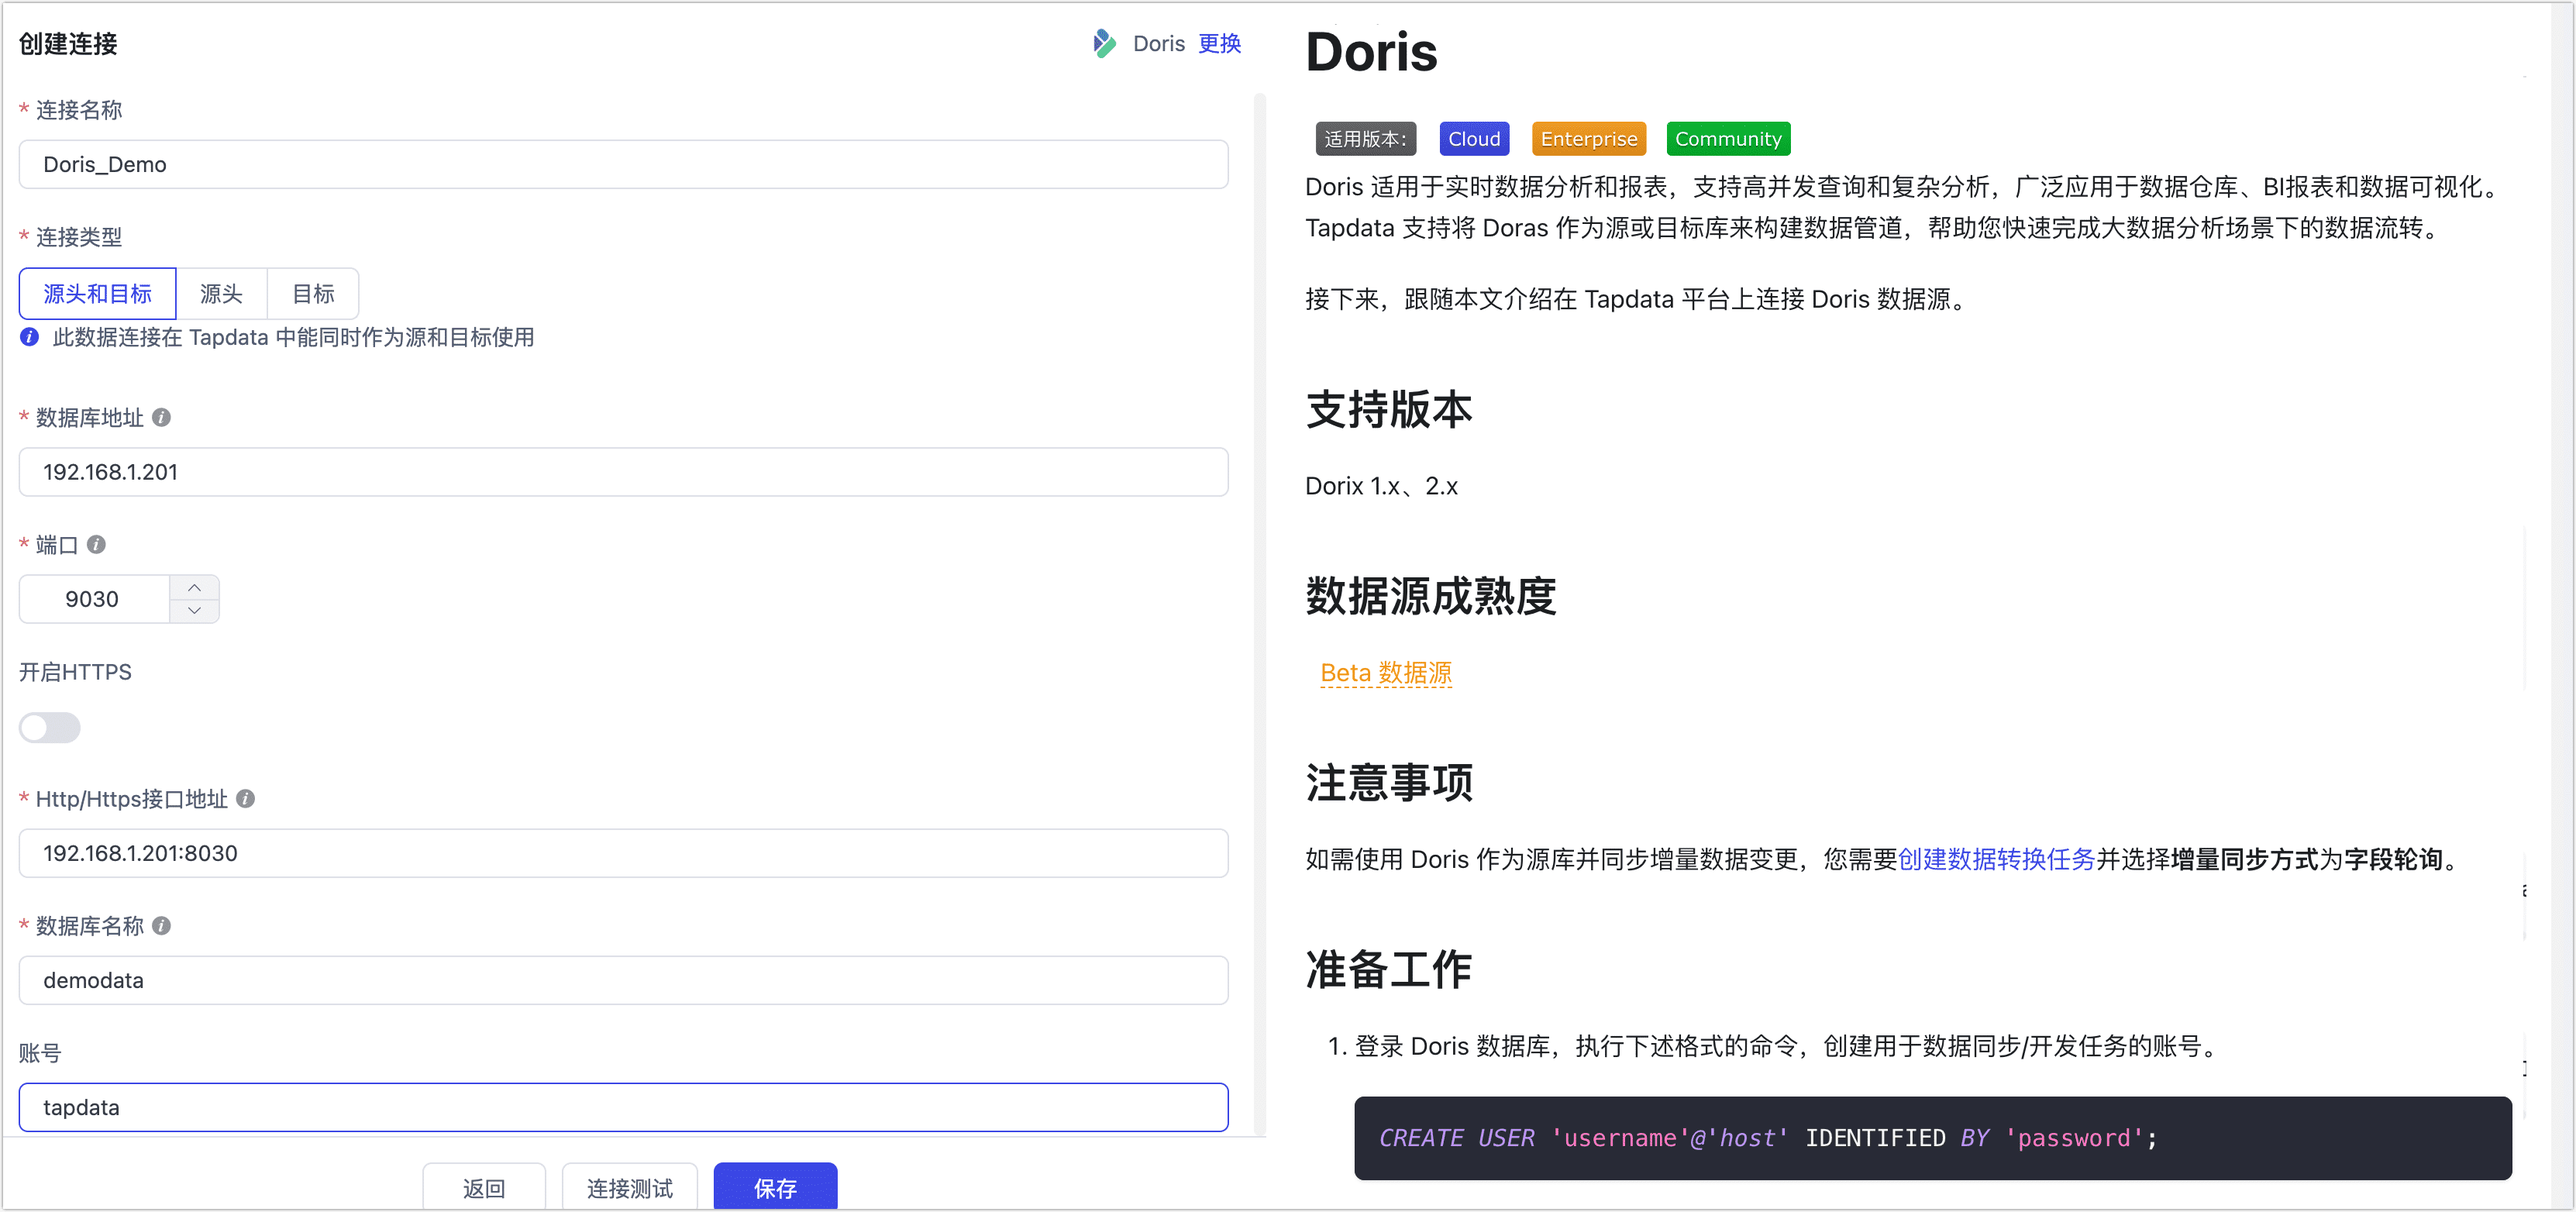
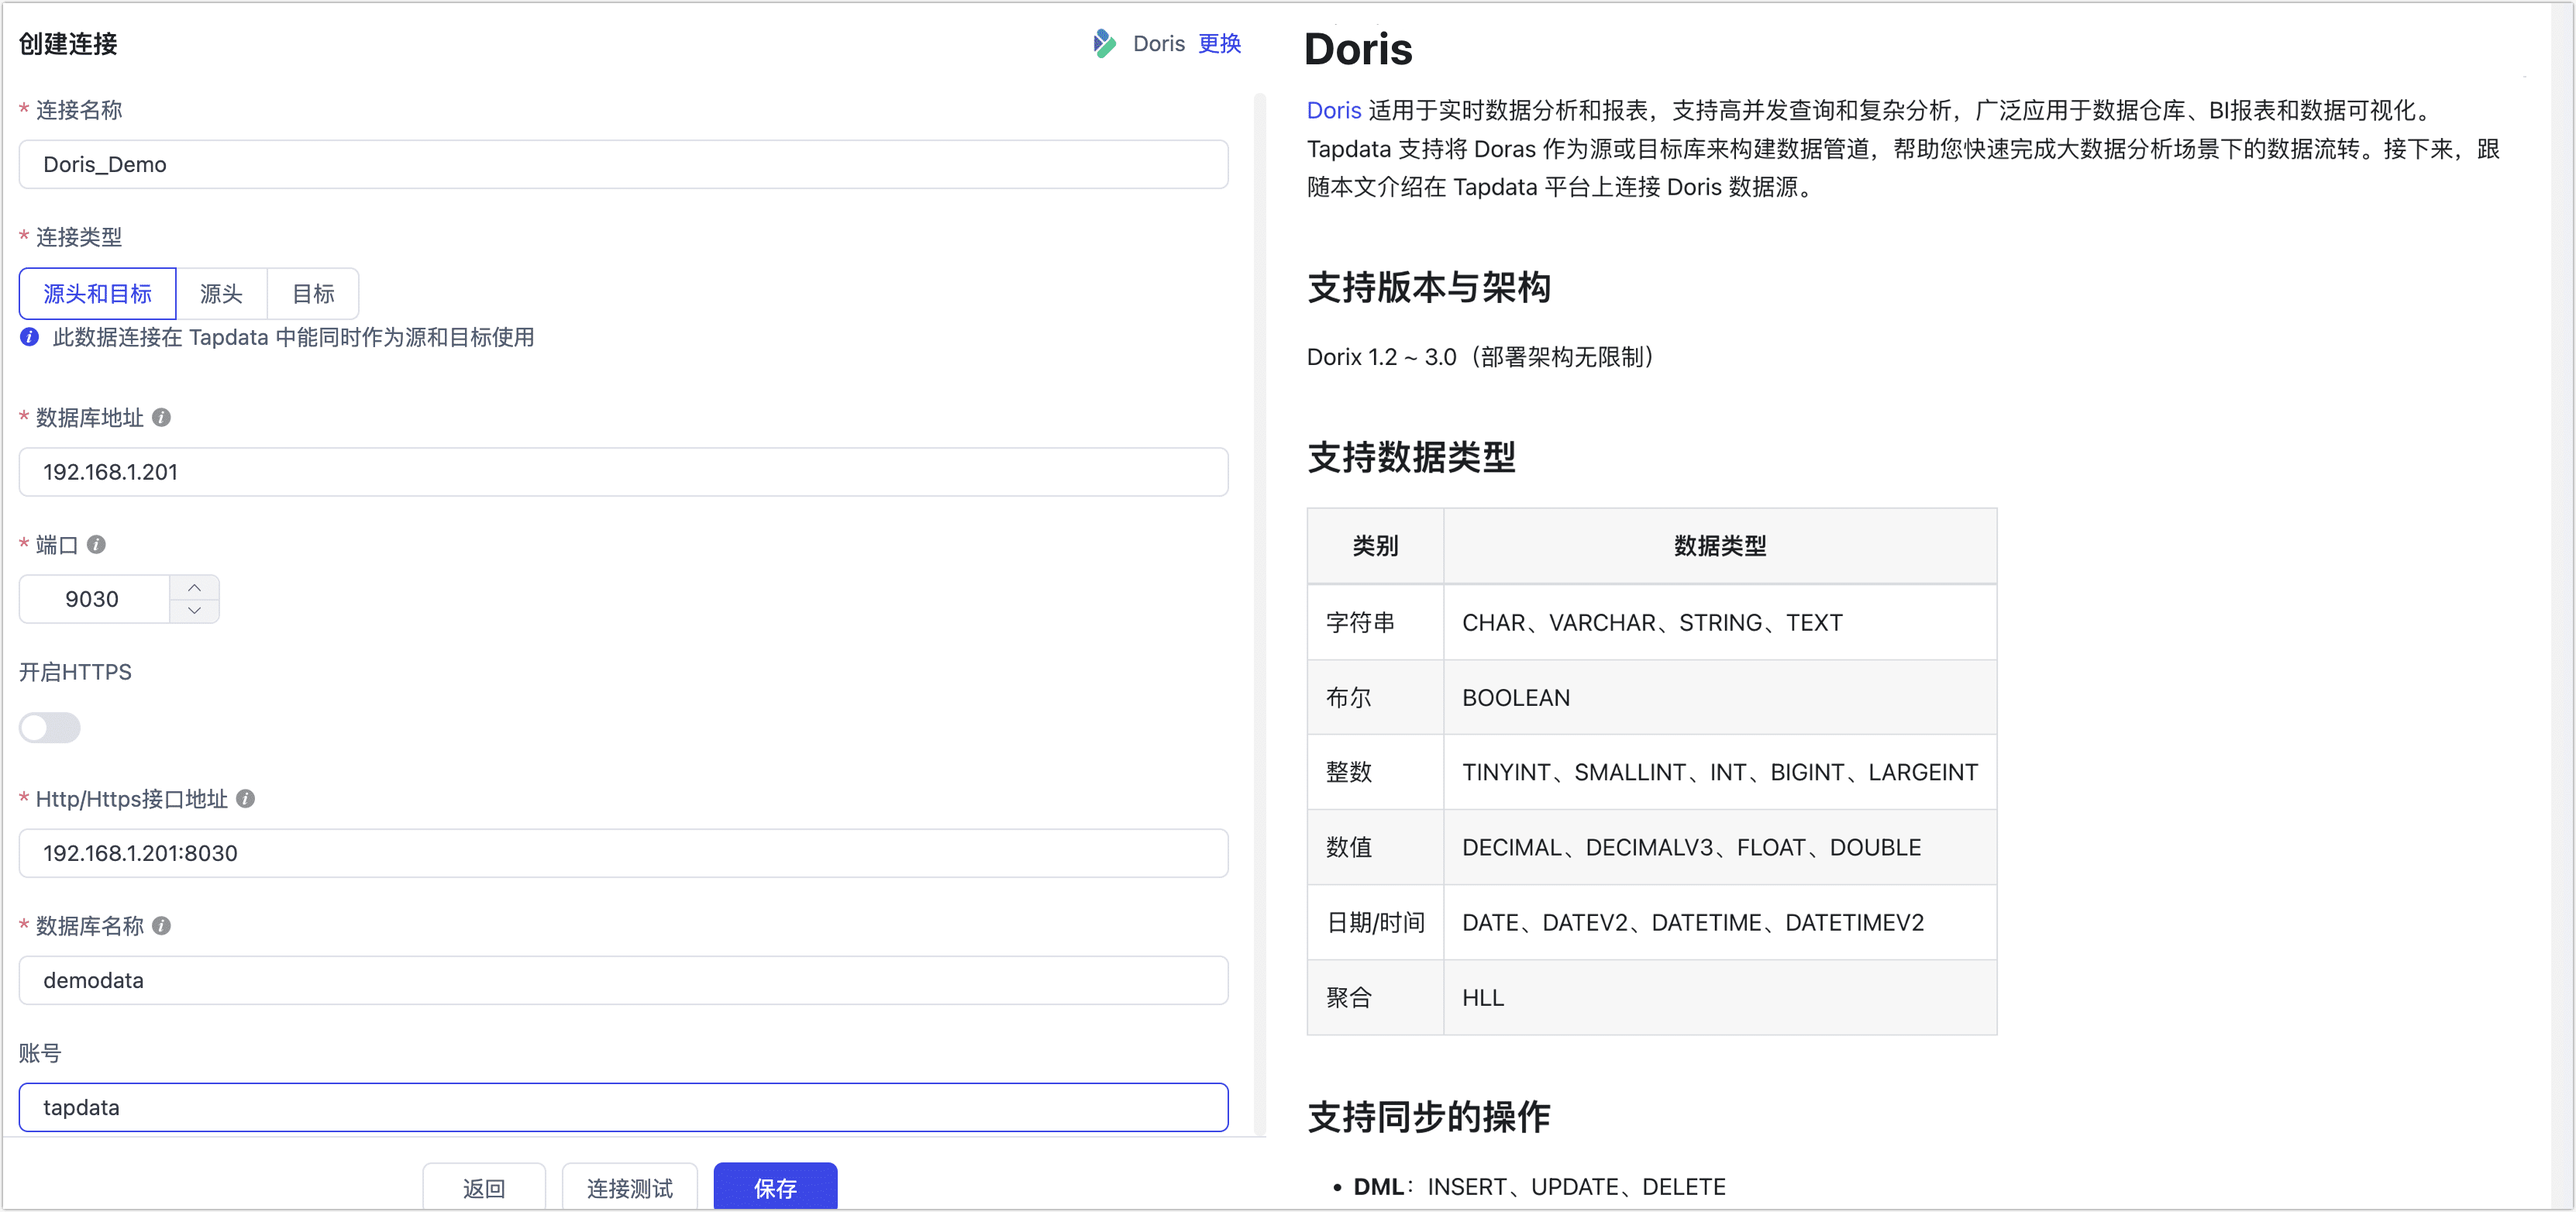
Update Doris Connection Tutorial

diff --git a/docs/prerequisites/warehouses-and-lake/doris.md b/docs/prerequisites/warehouses-and-lake/doris.md
@@ -3,26 +3,46 @@ import Content1 from '../../reuse-content/_all-features.md';
 
 <Content1 />
 
-Doris 适用于实时数据分析和报表，支持高并发查询和复杂分析，广泛应用于数据仓库、BI报表和数据可视化。Tapdata 支持将 Doras 作为源或目标库来构建数据管道，帮助您快速完成大数据分析场景下的数据流转。
-
-接下来，跟随本文介绍在 Tapdata 平台上连接 Doris 数据源。
+[Doris](https://doris.apache.org/) 适用于实时数据分析和报表，支持高并发查询和复杂分析，广泛应用于数据仓库、BI报表和数据可视化。Tapdata 支持将 Doras 作为源或目标库来构建数据管道，帮助您快速完成大数据分析场景下的数据流转。接下来，跟随本文介绍在 Tapdata 平台上连接 Doris 数据源。
 
 ```mdx-code-block
 import Tabs from '@theme/Tabs';
 import TabItem from '@theme/TabItem';
 ```
 
-## 支持版本
+## 支持版本与架构
 
-Dorix 1.x、2.x
+Dorix 1.2 ~ 3.0（部署架构无限制）
 
-import Content from '../../reuse-content/beta/_beta.md';
+## 支持数据类型
 
-<Content />
+| 类别      | 数据类型                                 |
+| --------- | ---------------------------------------- |
+| 字符串    | CHAR、VARCHAR、STRING、TEXT              |
+| 布尔      | BOOLEAN                                  |
+| 整数      | TINYINT、SMALLINT、INT、BIGINT、LARGEINT |
+| 数值      | DECIMAL、DECIMALV3、FLOAT、DOUBLE        |
+| 日期/时间 | DATE、DATEV2、DATETIME、DATETIMEV2       |
+| 聚合      | HLL                                      |
+
+## 支持同步的操作
+
+* **DML**：INSERT、UPDATE、DELETE
+* **DDL**（仅在作为目标时支持）：ADD COLUMN、CHANGE COLUMN、DROP COLUMN、RENAME COLUMN
+
+:::tip
+
+- 作为源库时，增量数据同步需通过字段轮询的方式实现，且不支持采集 DDL 操作，详见[变更数据捕获（CDC）](../../introduction/change-data-capture-mechanism.md)。
+- 作为目标库时，您还可以通过任务节点的高级配置，选择 DML 写入策略：插入冲突场景下是否转为更新。
+
+:::
 
 ## 注意事项
 
-如需使用 Doris 作为源库并同步增量数据变更，您需要[创建数据转换任务](../../user-guide/data-development/create-task.md)并选择**增量同步方式**为**字段轮询**。
+* 受限于 Doris 特性，作为同步目标库时应尽量避免频繁的事务性操作（如频繁更新和删除），以免影响写入性能。
+* 当前 TapData 仅支持通过 Stream Load 方式写入数据，因此，对于使用**明细模型**或**聚合模型**创建的表，更新和删除操作的支持尚不完整。
+* 作为同步目标库时，为提升大批量数据插入的性能，建议根据单条记录的大小，将批次大小配置为 1 万 ~ 10 万条记录，注意避免设置过大以免引发 OOM 问题。
+* Doris 作为目标库进行大规模数据入仓时，建议在业务低峰期执行，以避免占用数据库 I/O 资源，影响查询性能。
 
 ## 准备工作
 
@@ -76,8 +96,6 @@ GRANT SELECT_PRIV, ALTER_PRIV, CREATE_PRIV, DROP_PRIV, LOAD_PRIV ON catalog_name
 
 
 
-
-
 ## 连接 Doris
 
 1. [登录 Tapdata 平台](../../user-guide/log-in.md)。
@@ -104,10 +122,10 @@ GRANT SELECT_PRIV, ALTER_PRIV, CREATE_PRIV, DROP_PRIV, LOAD_PRIV ON catalog_name
     - 高级设置
       - **Doris 目录**：Doris 的目录，其层级在数据库之上，如使用默认目录可置空，更多介绍，见[多源数据目录](https://doris.apache.org/zh-CN/docs/1.2/lakehouse/multi-catalog/)。
       - **其他连接参数**：额外的连接参数，默认为空。
-      - **时间类型的时区**：默认为数据库所用的时区，您也可以根据业务需求手动指定。 
+      - **时区**：默认为 0 时区，如果更改为其他时区，不带时区的字段（如 DATETIME、DATETIMEV2）会受到影响，而 DATE、DATE2 类型则不会受到影响。
       - **Agent 设置**：默认为**平台自动分配**，您也可以手动指定 Agent。
-      - **模型加载时间**：当数据源中模型数量小于 10,000 时，每小时刷新一次模型信息；如果模型数据超过 10,000，则每天按照您指定的时间刷新模型信息。
-      - **开启心跳表**：当连接类型选择为**源头和目标**、**源头**时，支持打开该开关，由 Tapdata 在源库中创建一个名为 **_tapdata_heartbeat_table** 的心跳表并每隔 10 秒更新一次其中的数据（数据库账号需具备相关权限），用于数据源连接与任务的健康度监测，更多介绍，见[通过心跳表监测数据同步链路](../../best-practice/heart-beat-task.md)。
+      - **模型加载时间**：如果数据源中的模型数量少于10,000个，则每小时更新一次模型信息。但如果模型数量超过10,000个，则刷新将在您指定的时间每天进行。
+      - **开启心跳表**：当连接类型为源头或目标时，可启用该开关。TapData 会在源库创建 `_tapdata_heartbeat_table` 心跳表，并每 10 秒更新一次（需具备相应权限），用于监测数据源连接与任务的健康状况。心跳任务在数据复制/开发任务启动后自动启动，您可在数据源编辑页面[查看心跳任务](../../best-practice/heart-beat-task.md)。
 
 6. 单击页面下方的**连接测试**，提示通过后单击**保存**。
 
@@ -116,4 +134,19 @@ GRANT SELECT_PRIV, ALTER_PRIV, CREATE_PRIV, DROP_PRIV, LOAD_PRIV ON catalog_name
    如提示连接测试失败，请根据页面提示进行修复。
 
    :::
+
+## 节点高级特性
+
+在配置数据同步/转换任务时，将 Doris 作为目标节点时，为更好满足业务复杂需求，最大化发挥性能，TapData 为其内置更多高级特性能力，您可以基于业务需求配置：
+
+![Doris 节点高级特性](../../images/doris_node_advanced_settings.png)
+
+| 配置               | 说明                                                         |
+| ------------------ | ------------------------------------------------------------ |
+| **键类型**         | 选择建表类型，支持 Unique（默认，主键模型） 、Aggregate（聚合模型）、Duplicate（明细模型），更多介绍，见[数据模型](https://doris.apache.org/zh-CN/docs/table-design/data-model/overview)。<br />当键类型选择为 **Duplicate**，且使用追加模式写入时，由于无更新条件，还需要指定排序字段。 |
+| **分区字段**       | 非传统意义上的分区，而是指建表时的 `DISTRIBUTED BY HASH` 分桶键。若手动设置分桶键，将优先使用；未设置则默认选主键或更新条件字段，若都未指定则使用全字段（不推荐）。 |
+| **分桶数**         | 创建表时选择分桶数，需基于实际业务情况设置，更多介绍，见[分桶数设计建议](https://doris.apache.org/zh-CN/docs/table-design/data-partition#bucket-%E7%9A%84%E6%95%B0%E9%87%8F%E5%92%8C%E6%95%B0%E6%8D%AE%E9%87%8F%E7%9A%84%E5%BB%BA%E8%AE%AE)。 |
+| **表属性**         | 支持基于业务需求，自行指定建表时的[表属性](https://doris.apache.org/zh-CN/docs/sql-manual/sql-statements/Data-Definition-Statements/Create/CREATE-TABLE#properties)。 |
+| **写入缓冲区容量** | 默认为 10240 KB，适当调大可提升大批量插入数据的性能，也可以调低以限制内存的占用避免发生 OOM。 |
+| **写入格式**       | 支持 JSON（默认）和 CSV 两种格式，JSON 格式相较于 CSV 更安全，适合处理复杂数据类型，但性能略低，可基于数据安全性和性能需求选择。 |
 
